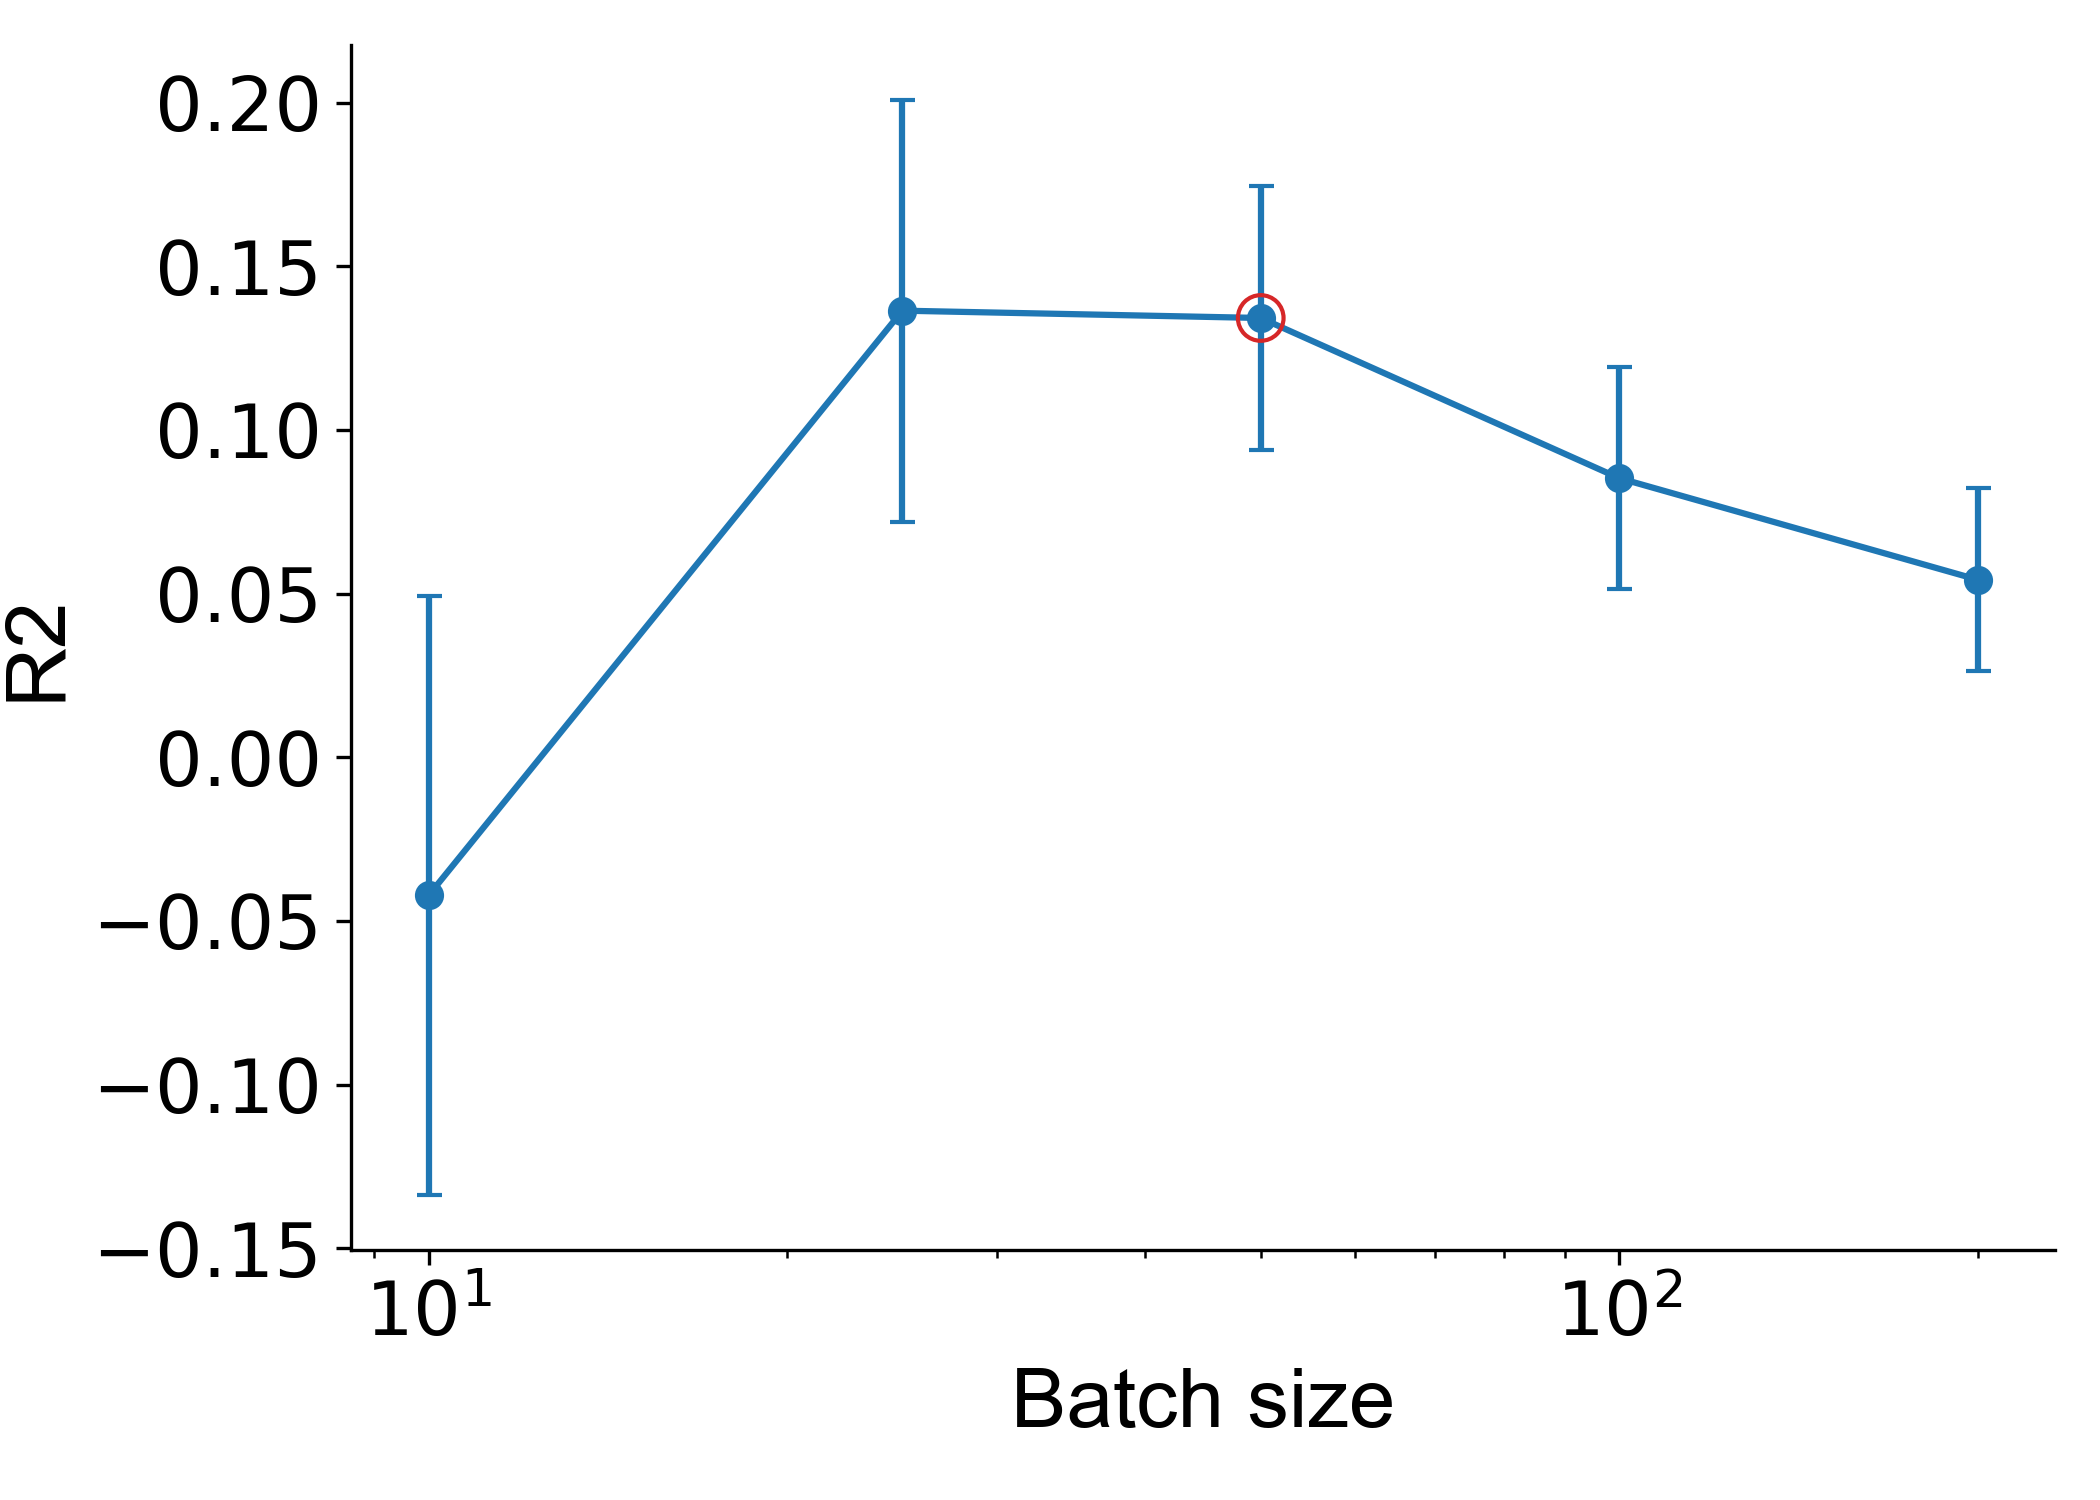
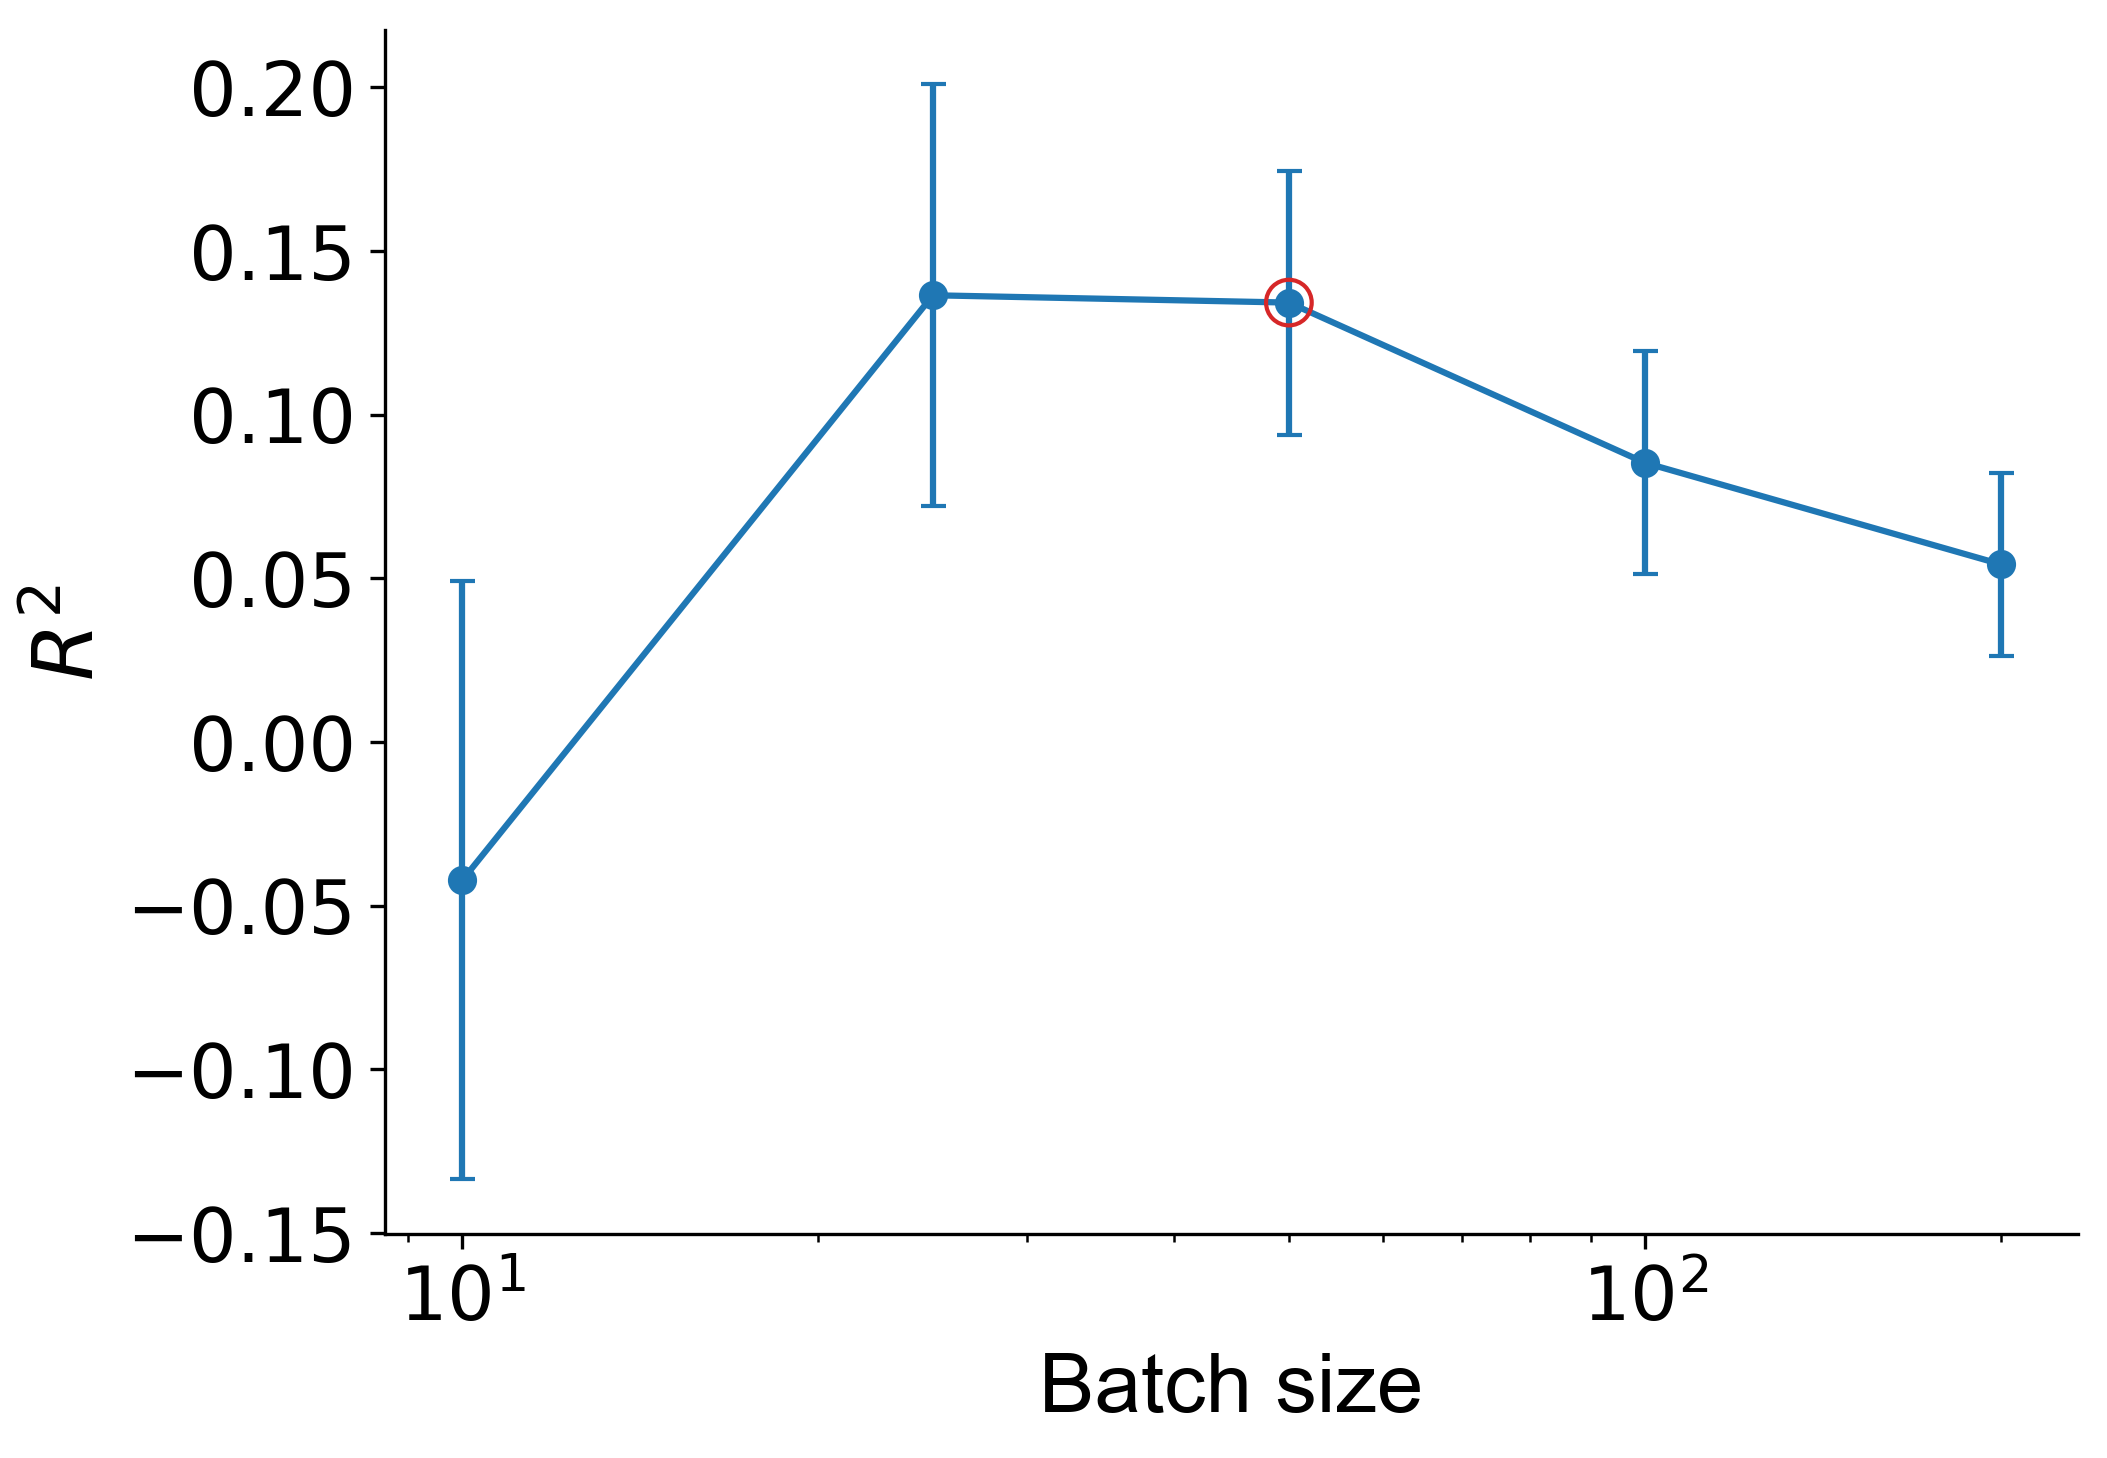
radiosensitivity hyperparam sensitivity analysis

diff --git a/radiosensitivity_prediction/plotting/plot_hyperparameter_sensitivity.py b/radiosensitivity_prediction/plotting/plot_hyperparameter_sensitivity.py
@@ -97,7 +97,7 @@ def aggregate(val_df):
 def plot_sensitivity(agg, figures_dir=FIGURES_DIR, metric=DEFAULT_METRIC):
     """One OAT curve per hyperparameter: mean validation score +/- sd vs value."""
     os.makedirs(figures_dir, exist_ok=True)
-    metric_label = {"auc": "AUROC", "r2": "R2"}.get(metric, metric.replace("_", " ").capitalize())
+    metric_label = {"auc": "AUROC", "r2": "$R^2$"}.get(metric, metric.replace("_", " ").capitalize())
     fontsize = 18
     fontproperties = {"family": "Arial", "weight": "normal", "size": 20}
 
@@ -123,7 +123,8 @@ def plot_sensitivity(agg, figures_dir=FIGURES_DIR, metric=DEFAULT_METRIC):
         ax.spines["right"].set_visible(False)
 
         fig.tight_layout()
-        fig.savefig(os.path.join(figures_dir, f"sensitivity_{param}_{metric_label}.png"), dpi=300)
+        fig.savefig(os.path.join(figures_dir, f"sensitivity_{param}_{metric}.png"),
+                    dpi=300, bbox_inches="tight")
         plt.close(fig)
 
 
